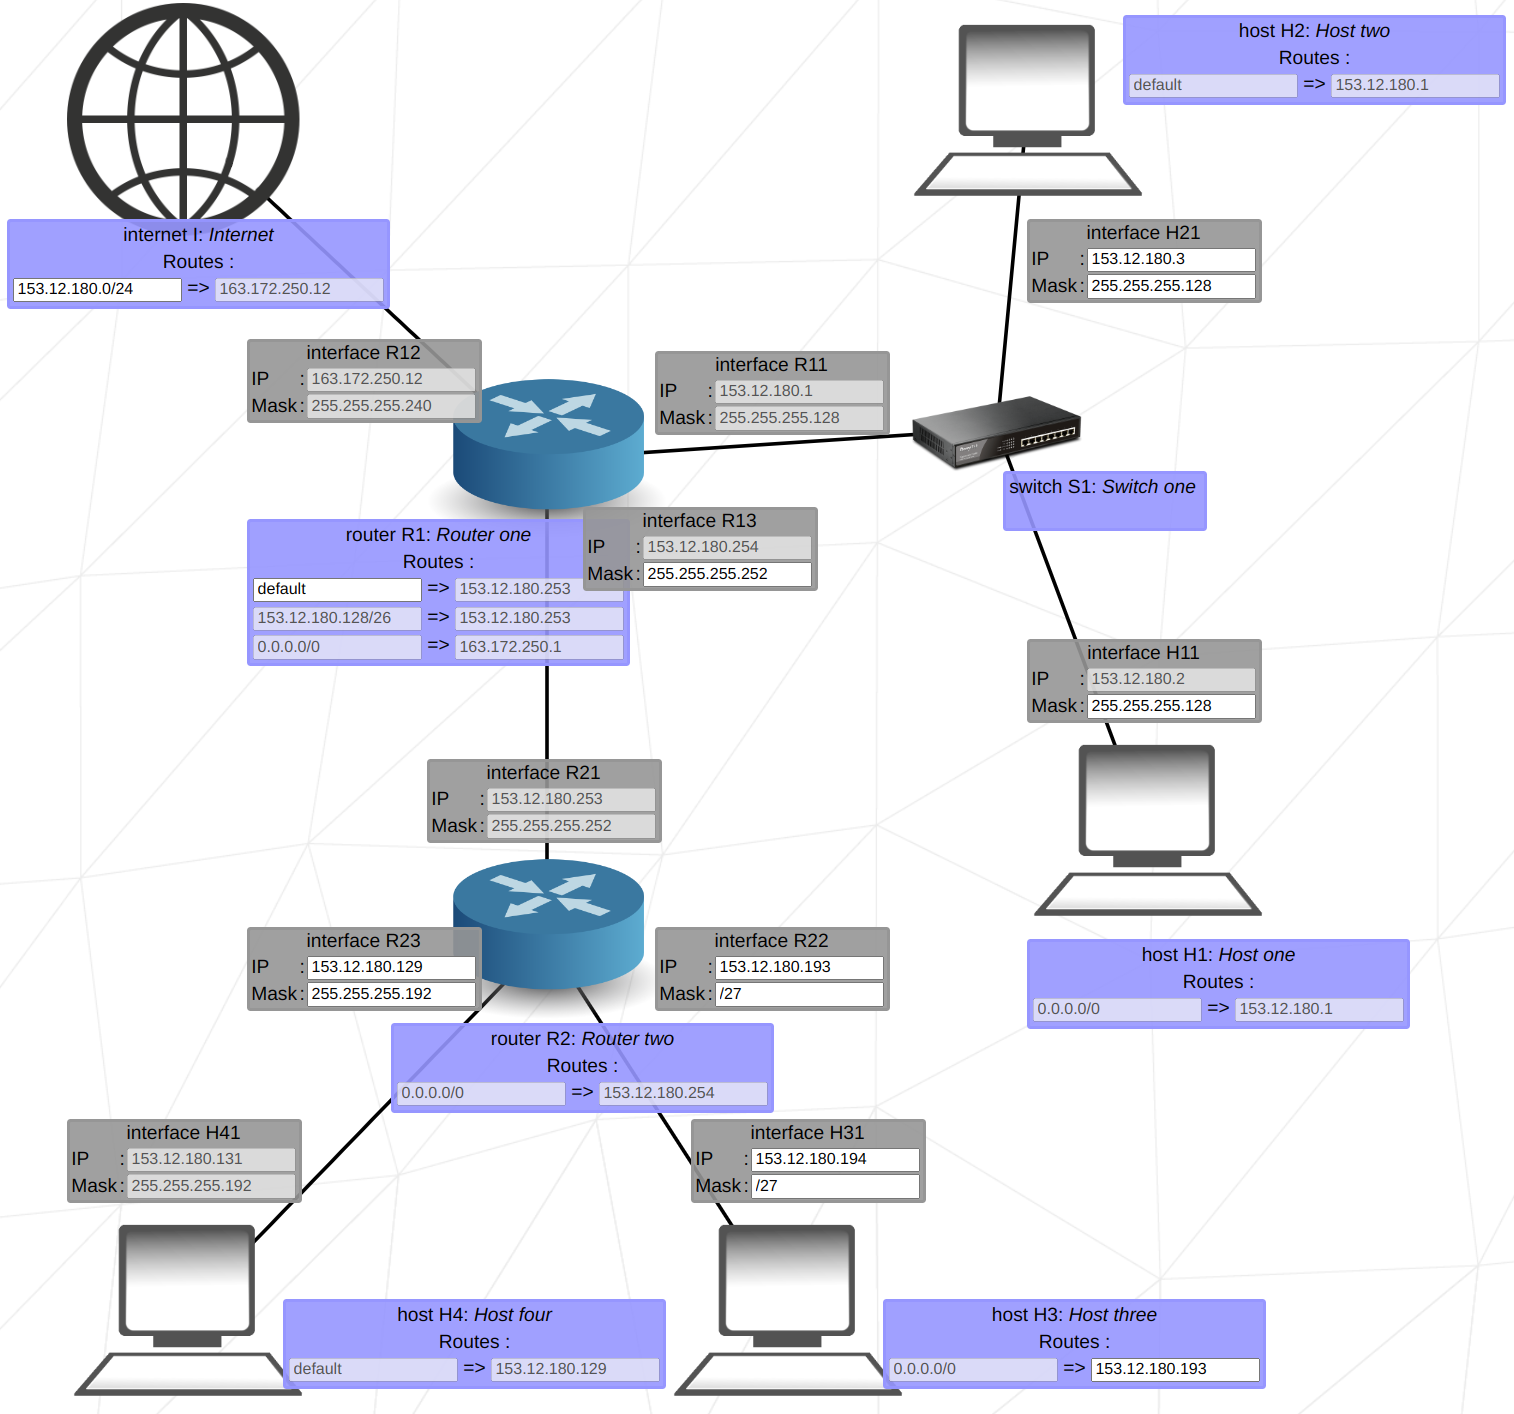
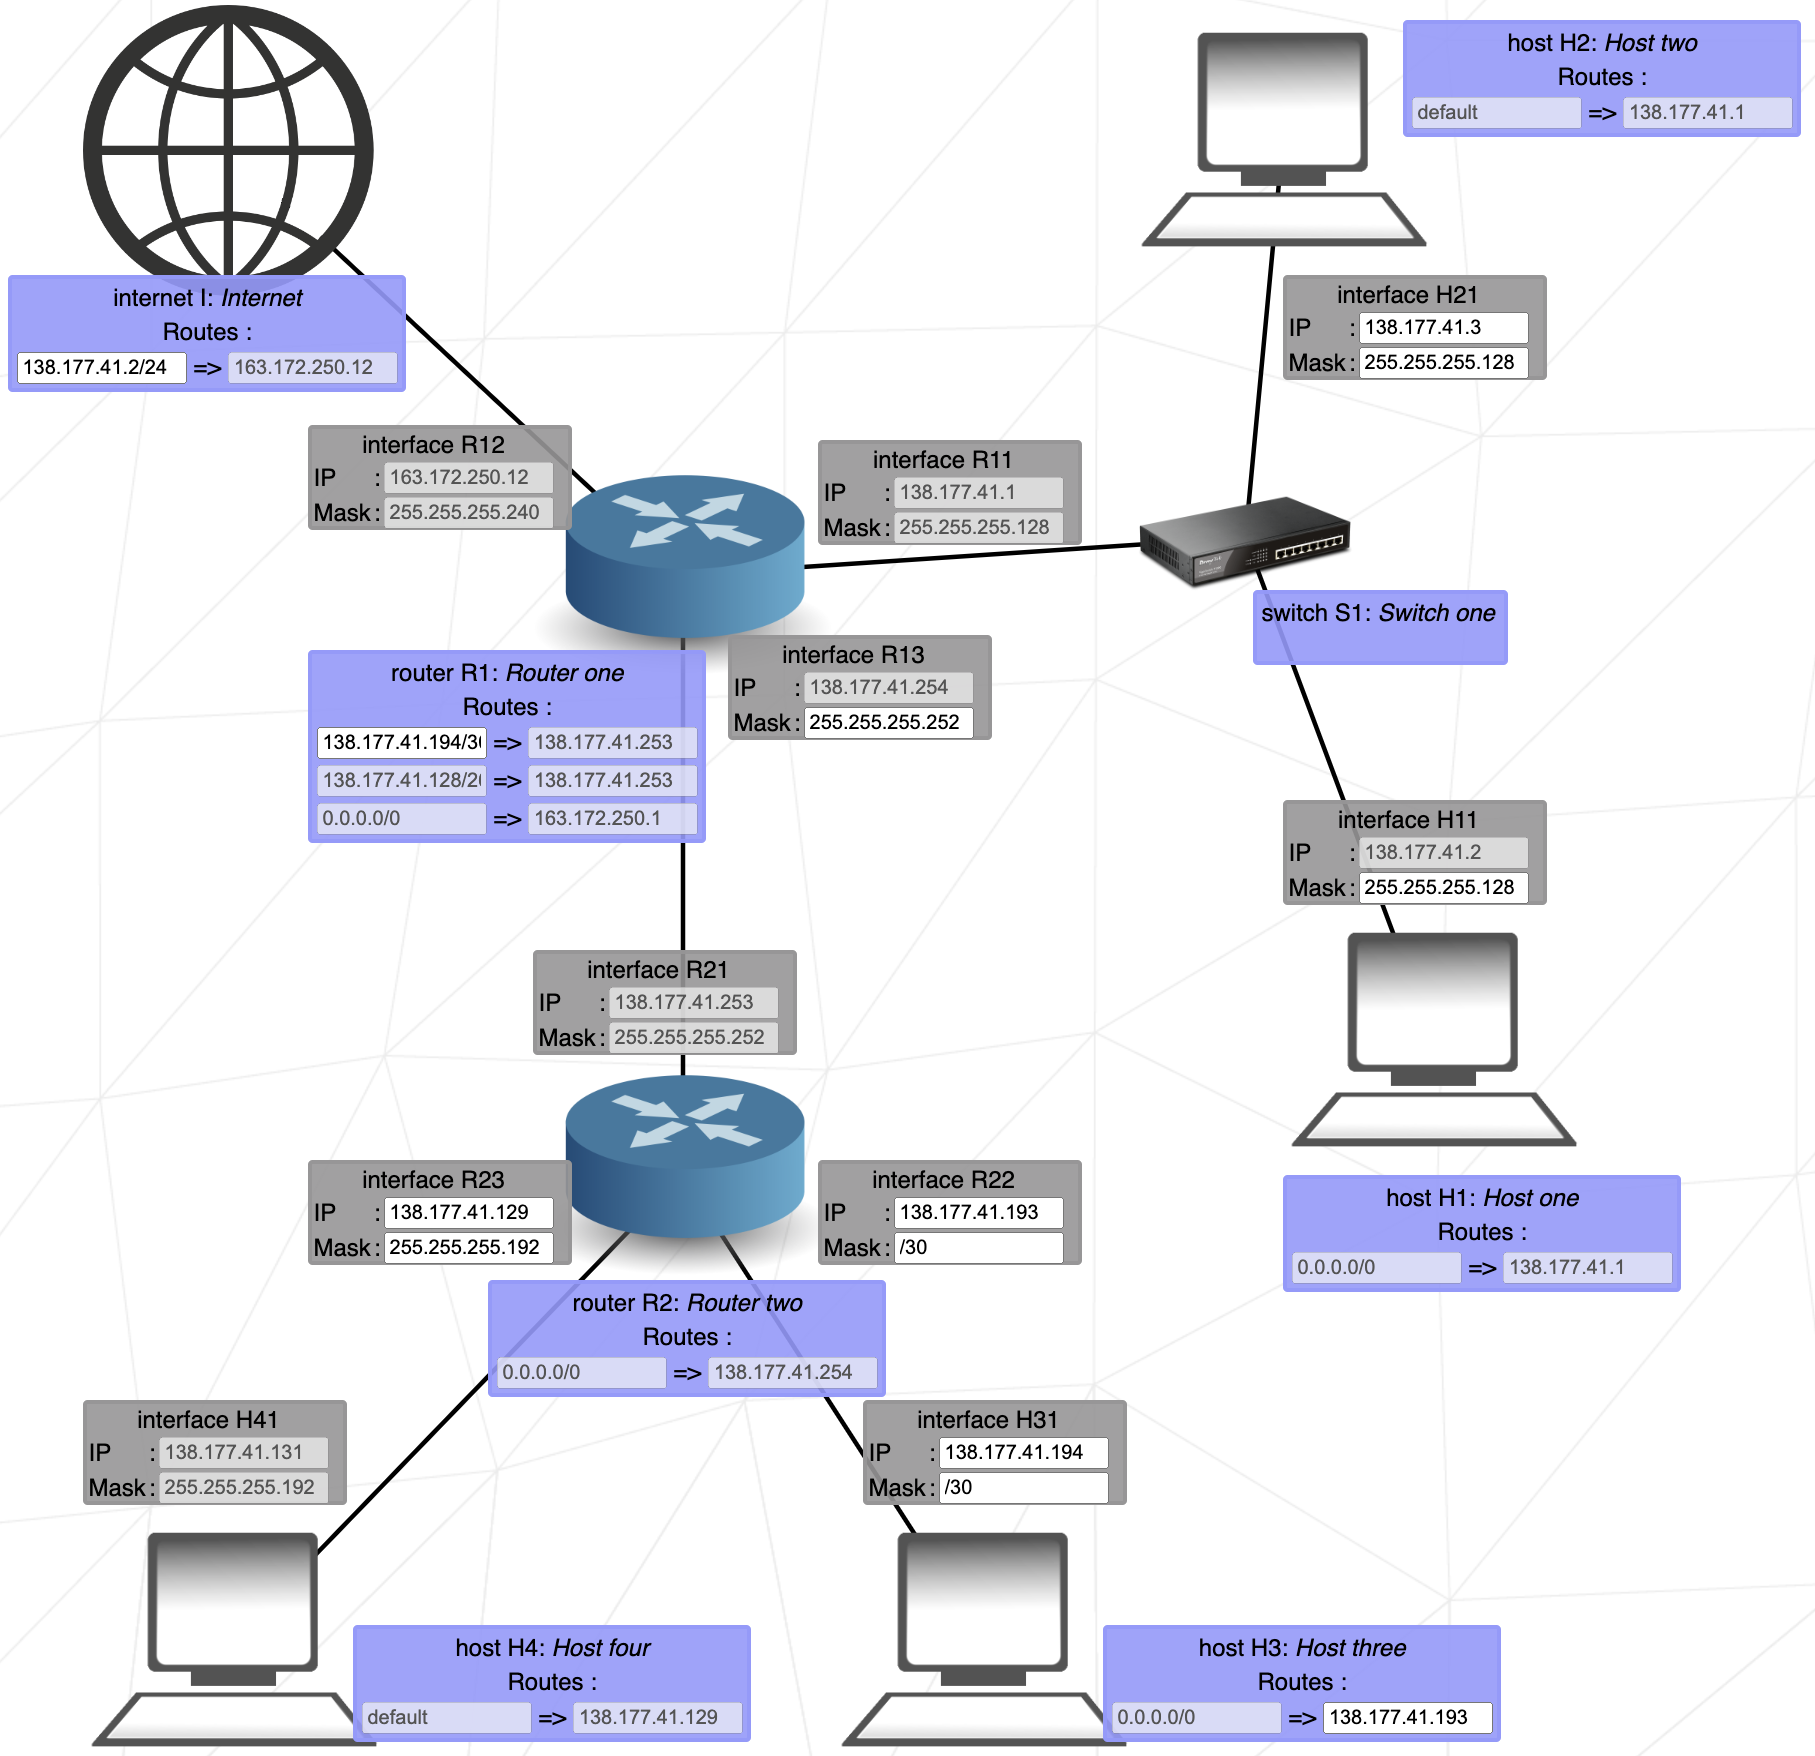
blabla

Changed region(s): [[0.0, 0.0, 1.0, 0.9958]]

diff --git a/README.md b/README.md
@@ -461,12 +461,12 @@ moi, j'utilise des plages de 16 en 16 partout (cf. <a href="#m240">plages de 240
 il y a 5 sous-réseaux.
 
 je vous conseille de suivre ces étapes :
-* faire communiquer A et B entre eux
-* faire communiquer C et D entre eux
+* connecter A et B entre eux
+* connecter C et D entre eux
 * connecter A et B à Internet
 * connecter C et D à Internet
 
-le plus simple est de distinguer un sous-réseau pour A et B et un autre pour C et D, mais on peut aussi tout faire dans la plage imposée par D en /8 par exemple (voir ma deuxième solution ci-dessous).
+le plus simple est de distinguer un sous-réseau pour A et B et un autre pour C et D, mais on peut aussi tout faire dans la plage imposée par D en /8 par exemple (voir ci-dessous).
 
 j'utilise `0.0.0.0/25` comme adresse de sous-réseau pour A et B. je reporte donc ce sous-réseau dans la destination des paquets d'Internet vers A.
 
@@ -490,5 +490,31 @@ on peut même remplacer la destination du routeur R1 par `default`.
 <span style="text-align: right;"></span>
 
 <img src="img/solution/10.png" width="100%" />
+
+encore une fois, il y a 5 sous-réseaux.
+
+je vous conseille de suivre ces étapes :
+* connecter H1 et H2 entre eux
+* connecter H3 et H4 entre eux
+* compléter les tables de routage
+
+toutes les adresses sont identiques sur les 3 premiers octets. il faut donc juste faire attention au chevauchement des plages sur le dernier octet. 
+
+dans le premier sous-réseau (pour H1 et H2), on nous impose de rester entre `138.177.41.0` et `138.177.41.127` (cf. <a href="#m128">plages pour 128</a>).
+
+dans le sous-réseau du milieu (pour R13 et R21), on nous impose de rester entre `138.177.41.252` et `138.177.41.255` (cf. <a href="#m252">plages pour 252</a>).
+
+dans le sous-réseau de H4, on nous impose la plage entre `138.177.41.128` et `138.177.41.191` (cf. <a href="#m128">plages pour 192</a>).
+
+à ce stade, il ne reste donc disponibles que les adresses entre `138.177.41.192` et `138.177.41.251` pour le sous-réseau de H3. il faut donc utiliser un masque qui permette de coder au plus 59 valeurs (= 251 - 192) par plage. le plus simple est d'utiliser un masque /30 mais on peut aussi utiliser :
+* le masque /29 qui va de 8 en 8
+* le masque /28 qui va de 16 en 16
+* le masque /27 qui va de 32 en 32
+
+si on utilisait le masque /26 et la plage contenant 193, on réserverait la plage de `138.177.41.192` à `138.177.41.255` et on chevaucherait le sous-réseau du milieu.
+
+en sous-réseau de destination d'Internet, on peut utiliser les 3 premiers octets des adresses des hôtes.
+
+en destination de R1, on peut utiliser le sous-réseau de H3 ou simplement `default`.
 
 [&uarr; retour au sommaire &uarr;](#sommaire)
